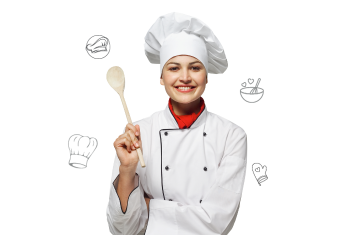
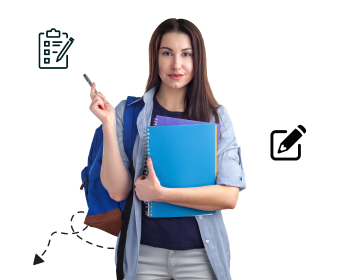
GMQ Global Services Overview section updated of home page

diff --git a/src/data/HomeCoursesData.tsx b/src/data/HomeCoursesData.tsx
@@ -2,18 +2,18 @@ import Nursing from '@/assets/nursing.png'
 import HospitalityCookery from '@/assets/hospitality-cookery.png'
 import Teaching from '@/assets/teaching.png'
 import informationTechnology from '@/assets/information-technology.png'
-import tradeCourses from '@/assets/trade-courses.png'
+import tradeCourses from '@/assets/Student-Health.png'
 import StudentAccommodation from '@/assets/StudentAccommodation.png'
 
 export const HomeCoursesDummyData = {
-  title: "With you at every step - from one point to another",
-  subTitle: '',
+  title: "GMQ Global Services Overview",
+  subTitle: 'Count on GMQ Global for every step of your educational journey',
   CoursesData:[
     {
         id: 1,
         img: Nursing,
-        title:'Nursing',
-        description:'Our Education Counsellors will learn about your career aspirations, lifestyle and study goals so that we can offer tailored advice.',
+        title:'Education Counseling',
+        description:'Our education counselors are here to ignite your passion by discussing your career aspirations and properly guiding you to your goals. Book a consultation with us today!',
         btn:{
             text:"learn more",
             href:'/popular-courses/nursing'
@@ -22,8 +22,8 @@ export const HomeCoursesDummyData = {
     {
         id: 2,
         img: HospitalityCookery,
-        title:'Hospitality & Cookery',
-        description:'Need the right advice for university or college placement, scholarships and internships? From the initial consultation to application, find out more how we can help.',
+        title:'Student Services',
+        description:`Don't get caught up in the hurdle of choosing the right university for yourself to decide what to do next! We're here to guide you from start to success. Click to learn more!`,
         btn:{
             text:"learn more",
             href:'/popular-courses/hospitality_and_cookery'
@@ -32,8 +32,8 @@ export const HomeCoursesDummyData = {
     {
         id: 3,
         img: Teaching,
-        title:'Teaching',
-        description:'GMQ Global represent over 750+ top universities, schools and colleges globally. Browse our fields of study to find your perfect course and institution today.',
+        title:'Popular Courses',
+        description:`GMQ Global partners with 100+ leading universities, schools, and colleges worldwide. Explore your options from the in-demand study fields to discover your ideal course and institution today.`,
         btn:{
             text:"learn more",
             href:'/popular-courses/teaching'
@@ -42,8 +42,8 @@ export const HomeCoursesDummyData = {
     {
         id: 4,
         img: informationTechnology,
-        title:'Information Technology',
-        description:'Whether you’re looking to study abroad or planning for a career overseas. See how we can help you study, work and live in leading destinations around the world.',
+        title:'Student Visa',
+        description:'Are you considering studying, working, or migrating? Learn how we can assist you in studying, working, and living in Australia by aiding you in obtaining the visas of your choosing.',
         btn:{
             text:"learn more",
             href:'/popular-courses/information-technology'
@@ -52,8 +52,8 @@ export const HomeCoursesDummyData = {
     {
         id: 5,
         img: tradeCourses,
-        title:'Trade Courses',
-        description:'From finding the best health cover policies to ensuring the insurance benefits for you, we have got you covered.',
+        title:'Student Health',
+        description:`GMQ Global is well-resourced with renowned organizations to ensure the best health cover policies tailored for you. We've got you covered, securing comprehensive insurance benefits.`,
         btn:{
             text:"learn more",
             href:'/popular-courses/trade-courses'

diff --git a/src/components/home/courses/CoursesItem.tsx b/src/components/home/courses/CoursesItem.tsx
@@ -2,6 +2,7 @@ import { AppBtn, AppDescription, PageLink } from "@/components/share";
 import Image from "next/image";
 import React from "react";
 import { motion } from "framer-motion";
+import AppImg from "@/components/share/AppImg";
 
 function CoursesItem({
   img,
@@ -22,15 +23,10 @@ function CoursesItem({
       className={`w-full rounded my-5 flex flex-col justify-between flex-wrap ${class_name}`}
       {...rest}
     >
-      <Image
+      <AppImg
         src={img}
-        alt={"logo"}
-        quality={100}
-        width={400}
-        // priority={true}
-        loading="lazy"
-        blurDataURL="true"
-        className="object-contain h-56 -mb-5 mx-auto rounded-lg"
+        alt={title || " image of gmq of popular-courses nursing"}
+        class_name="w-full rounded-md"
       />
       <div className="bg-secondary md:p-5 p-3 !pb-0 flex-1 flex flex-col justify-between rounded-2xl relative">
         <div className="df">
@@ -53,10 +49,10 @@ function CoursesItem({
           className="mt-5 flex -mb-5"
           initial={{ opacity: 0, x: 50 }}
           whileInView={{ opacity: 1, x: 0 }}
-          transition={{
-            delay: (index / 100) * 50,
-            duration: 0.5,
-          }}
+          // transition={{
+          //   delay: (index / 100) * 50,
+          //   duration: 0.5,
+          // }}
           viewport={{
             once: true,
           }}

diff --git a/src/components/home/courses/index.tsx b/src/components/home/courses/index.tsx
@@ -1,4 +1,4 @@
-import { AppTitle, Container } from "@/components/share";
+import { AppSubTitle, AppTitle, Container } from "@/components/share";
 import { HomeCoursesDummyData } from "@/data/HomeCoursesData";
 import React from "react";
 import CoursesItem from "./CoursesItem";
@@ -21,16 +21,17 @@ const defaultVariants = {
 };
 
 function HomeCourses() {
-  const { title, CoursesData } = HomeCoursesDummyData;
+  const { title, subTitle, CoursesData } = HomeCoursesDummyData;
 
   return (
-    <section className="bg-grayCustom py-9 w-full">
+    <section className="bg-white py-9 w-full">
       <Container>
         <div className="flex flex-col justify-center items-center flex-wrap">
           <AppTitle text={title} class_name="!text-center" isAnimation />
-          <div className="w-full mt-8 flex justify-center gap-2 flex-wrap">
+          <AppSubTitle text={subTitle} />
+          <div className="w-full mt-8 flex justify-center gap-2 md:gap-5 flex-wrap">
             {CoursesData?.map((item, key) => (
-              <OldCoursesItem
+              <CoursesItem
                 key={key}
                 {...item}
                 index={key}

diff --git a/src/components/share/AppGoToTop.tsx b/src/components/share/AppGoToTop.tsx
@@ -4,10 +4,11 @@ function AppGoToTop() {
   return (
     <ScrollToTop
       smooth
-      className="!bg-bluePrimary !rounded-full !w-[50px] !h-[50px] !p-2 hover:opacity-90 flex justify-center items-center"
+      className="!bg-bluePrimary"
       color="#fff"
     />
   );
 }
 
 export default AppGoToTop;
+// !bg-bluePrimary border !rounded-full !w-[50px] !h-[50px] !p-2 hover:opacity-90 flex justify-center items-center
